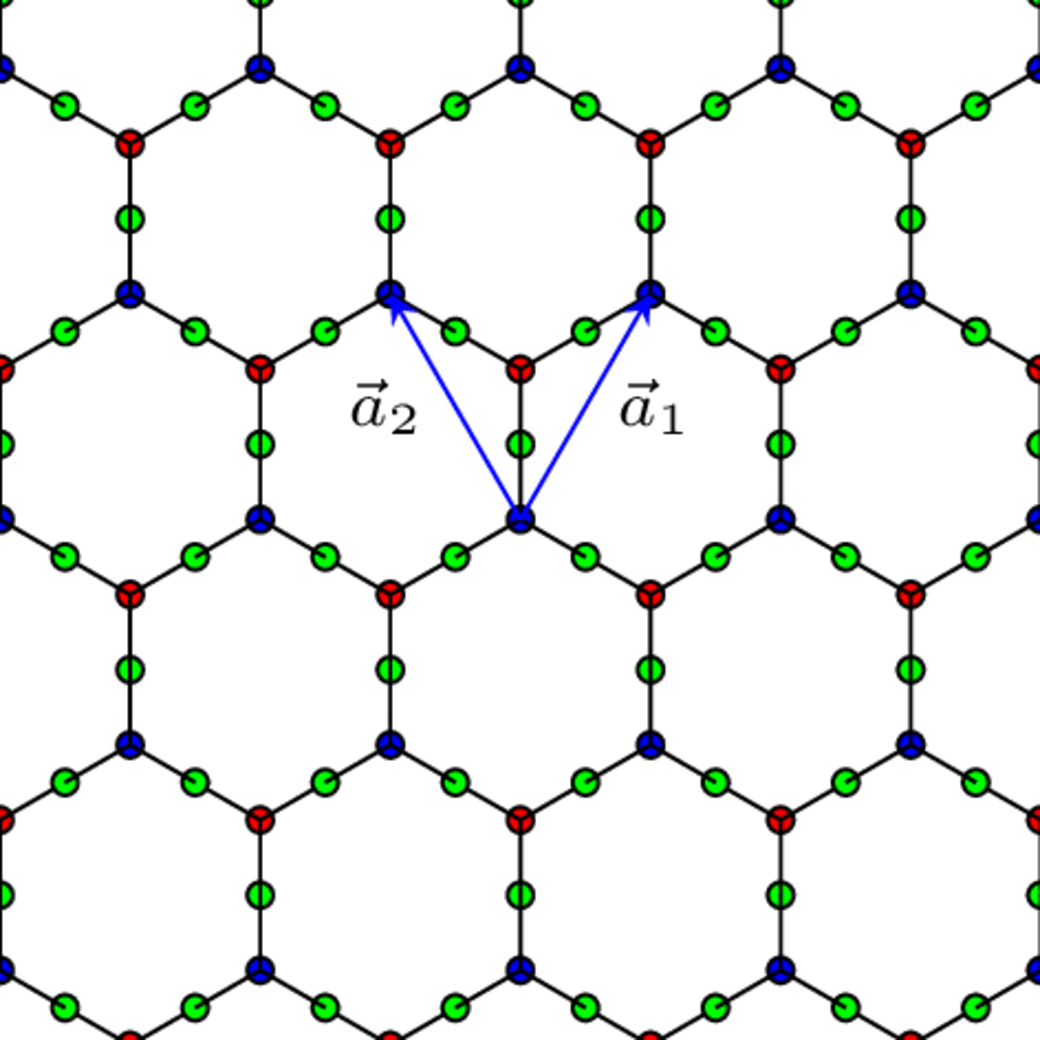
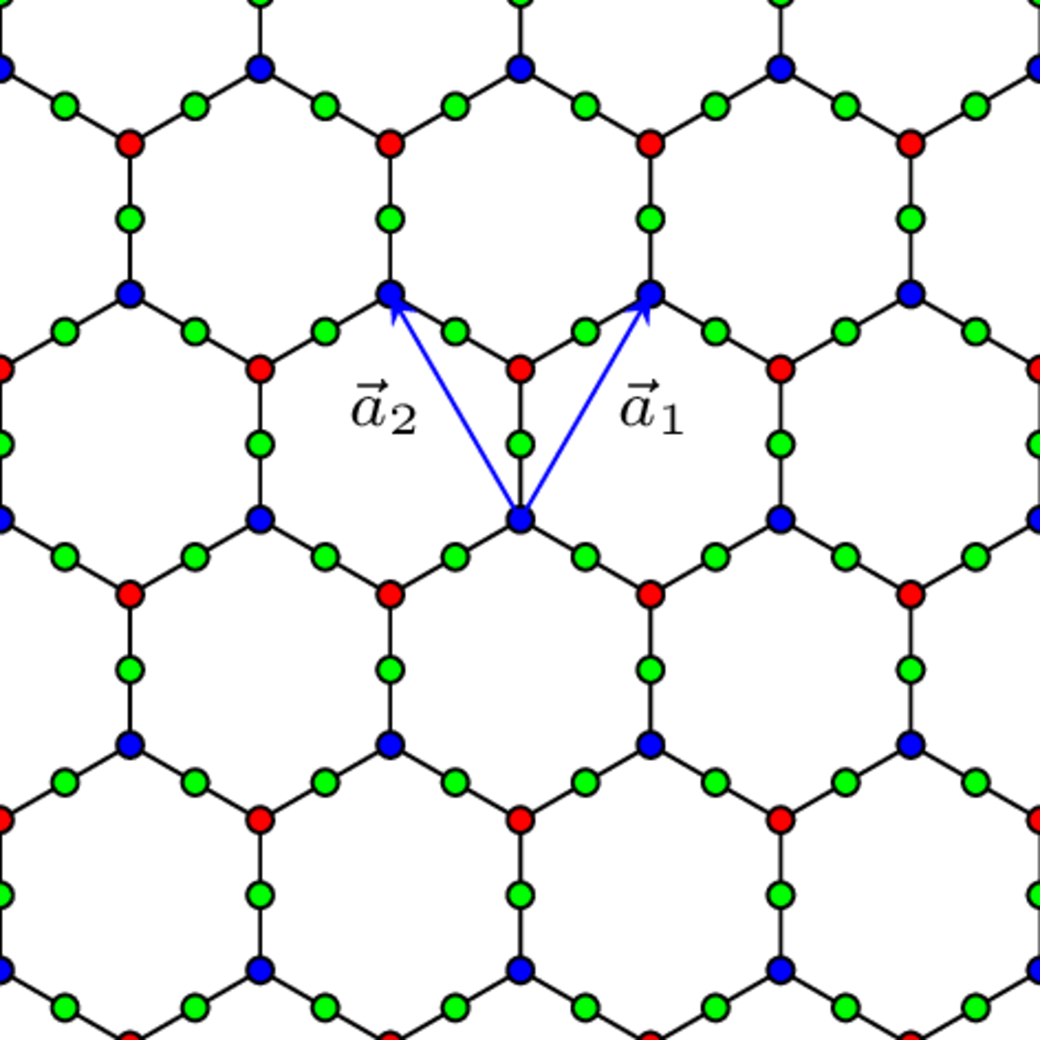
Added readme.md Also updated TikZ code to avoid covering nodes with bond lines

diff --git a/example.tex b/example.tex
@@ -1,7 +1,5 @@
-\documentclass[tikz, convert={density=300,size=1040x1040,outext=.png}]{standalone}
-%\documentclass[tikz]{standalone}
-%\DeclareMathSizes{7}{7}{5}{4}
-%\DeclareMathSizes{5}{5}{3}{2}
+%\documentclass[tikz, convert={density=300,size=1040x1040,outext=.png}]{standalone}
+\documentclass[tikz]{standalone}
 
 % Custom key-value pairs (color dict):
 \def\addvalue#1#2{\expandafter\gdef\csname my@data@#1\endcsname{#2}}
@@ -42,18 +40,29 @@
 
     \clip (-2,-2) rectangle (2,2);
 
-    % \def\reducedcoordinates{\pgftransformcm{0.577}{0.666}{-0.577}{0.666}{\pgfpoint{0}{0}}}
+    %\def\reducedcoordinates{\pgftransformtriangle
+    %{\pgfpoint{0}{0}}
+    %{\pgfpoint{-0.5}{0.866}}
+    %{\pgfpoint{0.5}{0.866}}
+    %}
     \def\reducedcoordinates{\pgftransformcm{-0.5}{0.866}{0.5}{0.866}{\pgfpoint{0}{0}}}
     \reducedcoordinates
 
     \foreach \x in {-7,-6,...,7}{
         \foreach \y in {-7,-6,...,7}{
             \pgftransformshift{\pgfpoint{\x cm}{\y cm}}
-            \foreach \orbital in \atoms{
-                \node[draw,circle,inner sep=1pt, fill=\usevalue\orbital] at (\orbital) {};}
             \foreach \bond in {\bonds}{
                 \draw \bond;
             }
+        }
+    }
+    \pgftransformreset
+    \reducedcoordinates
+    \foreach \x in {-7,-6,...,7}{
+        \foreach \y in {-7,-6,...,7}{
+            \pgftransformshift{\pgfpoint{\x cm}{\y cm}}
+            \foreach \orbital in \atoms{
+                \node[draw,circle,inner sep=1pt, fill=\usevalue\orbital] at (\orbital) {};}
         }
     }
 

diff --git a/readme.md b/readme.md
@@ -1,0 +1,7 @@
+Use `-shell-escape` option of `pdflatex` to compile to PNG, e.g.:
+
+`pdflatex -shell-escape example.tex`
+
+Example output:
+
+![Honeycomb-Kagome lattice](example.png)
